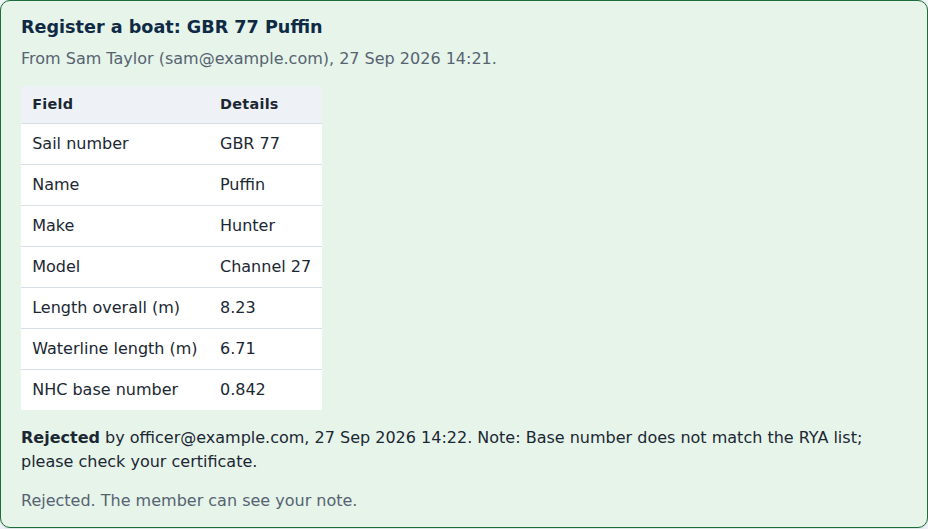
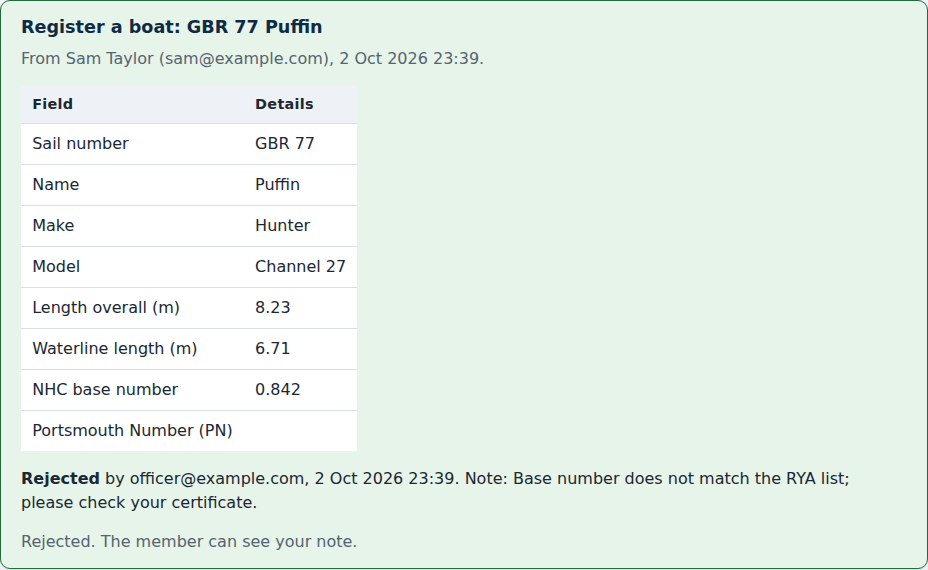
Slice 24 part B: manual, screenshots, decisions; disabled boats in Enter boats
Adds the Handicap systems manual page and updates the pages it touches.
Enter boats now lists boats lacking the series' number, disabled and with the
reason, instead of silently leaving them out.

Claude-Session: https://claude.ai/code/session_01QY3tQYF5nVQS35pznUQfpw

diff --git a/scripts/manual_screenshots/shots.js b/scripts/manual_screenshots/shots.js
@@ -155,6 +155,28 @@ const card = (page, text) => page.locator('section.card', { hasText: text }).fir
     clip: { x: 0, y: title.y - 8, width: 1000, height: standings.y + standings.height - title.y + 16 },
   });
 
+  // Portsmouth Yardstick (slice 24): a series' handicap system on its settings
+  // page, then its results, and a boat that races on a Portsmouth Number.
+  await officer.goto(`${BASE}/office/`);
+  await officer.locator('table a', { hasText: "Gaffers' Cup" }).click();
+  await officer.click('text=Change settings');
+  await officer.waitForLoadState('networkidle');
+  const settings = await officer.locator('form.stacked').boundingBox();
+  const rules = await officer.locator('fieldset.group').boundingBox();
+  await officer.screenshot({
+    path: path.join(OUT, 'handicap-system-setting.png'), fullPage: true,
+    clip: { x: settings.x - 8, y: settings.y - 8, width: settings.width + 16, height: rules.y - settings.y },
+  });
+  await publicPage.goto(`${BASE}/series/4/?race=1&detail=1`);
+  const gTop = await publicPage.locator('#race-1').boundingBox();
+  const gTable = await publicPage.locator('#race-1 ~ .table-scroll').first().boundingBox();
+  await publicPage.screenshot({
+    path: path.join(OUT, 'results-portsmouth.png'), fullPage: true,
+    clip: { x: 0, y: gTop.y - 8, width: 1000, height: gTable.y + gTable.height - gTop.y + 16 },
+  });
+  await phone.goto(`${BASE}/boats/5/`);
+  await shot(phone.locator('body'), 'results-portsmouth-boat.png');
+
   // Forgotten passwords.
   await publicPage.goto(`${BASE}/accounts/password-reset/`);
   await shot(publicPage.locator('body'), 'password-reset.png');

diff --git a/templates/races/office/_boat_choices.html b/templates/races/office/_boat_choices.html
@@ -1,7 +1,13 @@
 <fieldset id="boat-choices" class="boat-choices" aria-label="Boats to enter" aria-live="polite">
   {% for boat in boats %}
+  {% if boat.pk in lacking %}
+  {# Slice 24: a boat without this series' number can't be entered, so say why. #}
+  <label><input type="checkbox" disabled>
+    {{ boat }} <span class="muted">has no {{ series.number_label }}, which this series needs</span></label>
+  {% else %}
   <label><input type="checkbox" name="boat" value="{{ boat.pk }}"{% if boat.pk|stringformat:"d" in ticked %} checked{% endif %}>
     {{ boat }}{% if boat.owner_display %} <span class="muted">{{ boat.owner_display }}</span>{% endif %}</label>
+  {% endif %}
   {% empty %}
   <p class="muted">No boats match &ldquo;{{ query }}&rdquo;.</p>
   {% endfor %}

diff --git a/scripts/manual_screenshots/seed.py b/scripts/manual_screenshots/seed.py
@@ -156,6 +156,45 @@ for number, day in [(1, 1), (2, 8), (3, 15)]:
             Finish.objects.create(race=race, entry=entry, finish_time=finish)
         Race.objects.filter(pk=race.pk).update(published_at=sent, results_sent_at=sent)
 
+# A Portsmouth Yardstick fleet (slice 24), a series of its own with its own
+# boats, which have only a Portsmouth Number. Race 1 is published; the numbers
+# are examples, not the RYA's. Created last so the other series keep their ids.
+gaffers = Series.objects.create(
+    club=club, name="Gaffers' Cup", handicap_system="PY", discards=0
+)
+gaffer_entries = [
+    SeriesEntry.objects.create(
+        series=gaffers,
+        boat=Boat.objects.create(
+            club=club,
+            sail_number=sail,
+            name=name,
+            py_number=number,
+            owner_name=owner,
+        ),
+    )
+    for sail, name, number, owner in [
+        ("GBR 311", "Mallard", 1120, "T. Penhale"),
+        ("GBR 59", "Shearwater", 1085, "A. Quay"),
+        ("GBR 2307", "Curlew", 1150, "J. Marsh"),
+    ]
+]
+gaffer_finishes = {
+    1: [time(19, 38, 20), time(19, 34, 5), time(19, 41, 50)],
+    2: [time(19, 31, 12), time(19, 29, 48), None],
+}
+for number, day in [(1, 10), (2, 17)]:
+    race = Race.objects.create(
+        series=gaffers, number=number, date=date(2026, 10, day), start_time=time(18, 30)
+    )
+    for entry, finish in zip(gaffer_entries, gaffer_finishes[number], strict=True):
+        RaceEntry.objects.create(race=race, entry=entry)
+        if finish:
+            Finish.objects.create(race=race, entry=entry, finish_time=finish)
+        else:
+            Finish.objects.create(race=race, entry=entry, status="DNF")
+    Race.objects.filter(pk=race.pk).update(published_at=sent, results_sent_at=sent)
+
 # One request of each kind, waiting.
 BoatRequest.objects.create(
     club=club,

diff --git a/races/test_handicap_systems.py b/races/test_handicap_systems.py
@@ -455,6 +455,34 @@ def test_the_office_names_every_boat_that_lacks_the_number(committee_client, py_
     assert "Nhc Only (N1), Spare (N2) have no Portsmouth Number (PN)" in page
 
 
+def test_the_enter_boats_list_says_why_a_boat_cant_be_ticked(
+    committee_client, py_boats
+):
+    series = make_series("Gaffers", handicap_system="PY")
+    page = committee_client.get(
+        reverse("races:office_enter_boats", args=[series.pk])
+    ).content.decode()
+    # Boats with a PN can be ticked; the NHC-only boat is listed, disabled, with why.
+    assert f'value="{py_boats["swift"].pk}"' in page
+    assert f'value="{py_boats["both"].pk}"' in page
+    assert f'value="{py_boats["nhc"].pk}"' not in page
+    assert "Nhc Only (N1) <span" in page and "has no Portsmouth Number (PN)" in page
+    assert '<input type="checkbox" disabled>' in page
+
+
+def test_an_nhc_series_lists_every_boat_as_tickable_that_has_a_base_number(
+    committee_client, py_boats
+):
+    series = make_series("Autumn")
+    page = committee_client.get(
+        reverse("races:office_enter_boats", args=[series.pk])
+    ).content.decode()
+    assert f'value="{py_boats["nhc"].pk}"' in page
+    assert f'value="{py_boats["both"].pk}"' in page
+    assert f'value="{py_boats["swift"].pk}"' not in page
+    assert "Swift (PY1) <span" in page and "has no NHC base number" in page
+
+
 def test_the_office_enters_boats_that_have_the_number(committee_client, py_boats):
     series = make_series("Gaffers", handicap_system="PY")
     response = office_enter(

diff --git a/races/office_views.py b/races/office_views.py
@@ -430,7 +430,7 @@ def enter_boats(request, pk):
     }
     # Boats ticked before a search stay listed, and ticked, whatever it finds.
     unentered = form.fields["boat"].queryset
-    boats = search(unentered, query, keep=ticked)
+    boats = list(search(unentered, query, keep=ticked).select_related("owner"))
     return _render(
         request,
         "races/office/enter_boats.html",
@@ -438,7 +438,9 @@ def enter_boats(request, pk):
         {
             "form": form,
             "series": series,
-            "boats": boats.select_related("owner"),
+            "boats": boats,
+            # Boats the series can't take yet: listed, but not tickable (slice 24).
+            "lacking": {boat.pk for boat in boats if series.boats_lack(boat)},
             "ticked": ticked,
             "query": query,
             "any_to_enter": unentered.exists(),

diff --git a/CLAUDE.md b/CLAUDE.md
@@ -103,7 +103,7 @@ a pointer instead.
   fixture I/O happens there, never inside `nhc/`. `tests/test_manual.py` is the
   one non-engine test there: it checks the user manual's links and contents.
 - Clubs (slice 11): Race Times serves many clubs from one database. `races/clubs.py` middleware finds `request.club` from the host (`<subdomain>.<SERVICE_DOMAIN>`, or the `SINGLE_CLUB` setting on an address with no club, which is how the Render test site, 127.0.0.1 and the tests reach Demo Club). Every club-owned model has `Model.objects.for_club(club)`, and every page, form and admin view looks up club rows through it (or through a row already found that way). `races/test_isolation.py` checks every URL, id, admin page and email for another club's data, and fails if a request-facing module queries a club model without `for_club`. A row's `club` is never editable in a form. The admin (`races/admin_site.py`, `ClubScopedAdmin`) shows only the current club; on the service's own address only the operator (superuser) gets in. Test builders default to Demo Club (`races.testing.default_club()`); to test several clubs, `make_club()` and set `HTTP_HOST="<subdomain>.localhost"`. The operator's pages (slice 11 part 3, `races/operator_views.py` at `/operator/`) exist only on the service's own address (`request.club is None`, tested with `settings.SINGLE_CLUB = ""` and `HTTP_HOST="localhost"`) and only for a superuser; they create and suspend clubs, rename them and change their contact email (slice 22: `club_settings`, logged, and the club's administrators emailed; the address never changes), invite administrators, and (slice 13) approve or turn down people *waiting* to join a club, through the same `membership_views.decide` as the club's Club members page, recorded as "the Race Times operator" (`OPERATOR_NAME`) (`races/invitations.py`: a signed 7-day link to the club's address), and log every action as an `OperatorAction`. Clubs and memberships aren't in the Django admin. See `docs/operating.md`.
-- `config/` is the Django project (settings, root URLs, WSGI/ASGI). `races/` is the app: Club, Boat, Series, SeriesEntry, Race, RaceEntry and Finish models, set up in the race office (below); `races/scoring.py` replays a series through `nhc` on every request (nothing derived is stored), passing a series' optional NHC steps (slice 14: `Series.nhc_cap_extremes` and `nhc_realign_to_base`, club series only, in `nhc/options.py`, apart from the RYA calculation in `nhc/handicap.py`; the MCC race in `tests/fixtures/mcc_full_nhc_method.yaml` is their specification); `races/audit.py` records every change to a score-affecting field as a `ScoringChange` row (who, when, old and new, and a reason for corrections), called explicitly from the finish view, the race office and the admin rather than via signals; a committee-only race day page per race (slice 9, `races/race_day.py` and `/races/<pk>/`: a Start sheet view and a Finishing view where a **Finished** button stamps the site's local time, with a two-minute Undo, 5-second HTMX polling that answers 204 when nothing changed, and `static/js/race-clock.js`, the one approved hand-written script; `race_day.now` is the clock to fix in tests) and a committee-only history page per series. The old finish-entry and start sheet addresses redirect to the race day page. Roles (see `docs/brief.md`) are per club (slice 11 part 2): a `ClubMembership` gives a person a role at one club (member, committee or administrator) once approved, and `races/roles.py` answers `is_member/is_committee/is_club_administrator(user, club)` from it. Use `member_required` / `committee_required` / `club_administrator_required`: the public is sent to log in, and a logged-in person without the role gets a 403, never a login redirect, which would loop. `is_staff`, Django groups and superuser status grant nothing at a club (the old "Race committee" group was removed by migration 0020); a superuser is the service's operator. Sign-up confirms the email with a signed link (`races/membership_views.py`) and asks to join the club; club administrators decide on the Club members page (`/members/`). Test builders `make_member/make_committee/make_administrator` create an approved Demo Club membership (`club=`, `role=`, `status=` to vary it; `join()` adds another club), and `make_operator()` a superuser with none. Members change nothing directly: `races/member_views.py` creates `BoatRequest`/`EntryRequest` rows, and `races/approvals.py` applies one when the committee approves it on the Change requests page (`/requests/`), through the same audit code as the admin. Email (slice 4) goes only through `races/notifications.send`, which sends after the transaction commits and turns a failure into a logged warning on the page rather than an error; templates are `templates/emails/*.txt`, first line the subject. `races/publishing.py` publishes a race's results and decides "amended since sent" from the change history. `races/sharing.py` (slice 21) builds the committee's **Share to WhatsApp** links (`https://wa.me/?text=...`, messages in `templates/races/share/`), shown only once a race is published and sent, or a series is final; the site itself sends nothing to WhatsApp. `races/final.py` (slice 10) declares a series final and reopens it: a final series is locked (every write path calls `final.check_open`, or `check_series_open` to read the series fresh) and `races/scoring.score_series` rebuilds its results from `Series.final_results`, a JSON copy of the engine's output, instead of replaying; this is the one place derived results are stored. Declaring and reopening are history rows of kind FINAL, which neither mark races amended nor move the standings' "Last updated". `races/start_sheet.py` (slice 6) keeps each race's start sheet (`RaceEntry`): only a boat on it can have a finish, every boat on it needs a time or a code before publishing, and a boat on it with nothing recorded is still scored DNC but shown as "Not recorded". Start sheet changes are not audited, since none moves a score. The test builder `record()` puts the boat on the start sheet first. `races/urls.py` is included at the site root. Project-level templates live in `templates/` (`base.html` loads HTMX and sends the CSRF token via `hx-headers`, so HTMX POSTs work without per-form tokens); HTMX is vendored at `static/js/htmx.min.js` (v2.0.10), not loaded from a CDN. The look (slice 7) is one hand-written stylesheet, `static/css/site.css`: every colour is a token in its `:root`, and `races/test_styles.py` checks the tokens meet WCAG AA contrast, that no colour is written anywhere else, and that pages load only the site's own files. `templates/500.html` copies the look inline and loads nothing. The race office (slice 18, `races/office_views.py` at `/office/`, **Race office** in the committee's menu) is where the committee sets up the club's boats, series, races and entries on the site's own pages, with Coming up (the next races) on its front page; the Django admin stays, at club addresses and the service's, but nothing on a club's site, in an email or in the manual links to it (`races/test_office.py` checks every page and email template), and on the service's own address it leaves out its links to club pages. `races/office_forms.BoatForm` and `SeriesForm` hold the rules and saving (`save_audited`) for both the race office and the admin, whose `BoatAdminForm` and `SeriesAdminForm` only add an always-shown reason box; the admin keeps its own race and entry inline formsets. Views live in one `*_views.py` module per area: `race_day_views` (the race day page and publishing), `office_views` (the race office), `series_views` (a series' history and final results), `request_views` (the committee's Change requests page), `member_views`, `membership_views`, `account_views`, `operator_views` and `legal_views`. Forms likewise: `race_day_forms`, `office_forms`, `admin_forms`, `request_forms`, `account_forms` and `operator_forms`; `audit.AuditedFormMixin` gives a form that saves a score-affecting field its history rows and its required reason. `races/testing.py` has builders and helpers for the app's tests, and `races/conftest.py` the fixtures several test modules share (`results/conftest.py` re-exports them); a test module never imports from another test module. A boat is shown as "Name (Sail number)" (`Boat.__str__`, slice 15) everywhere except the race day page, which puts the sail number first (`Boat.race_day_label`), since the committee reads sail numbers off boats on the water.
+- `config/` is the Django project (settings, root URLs, WSGI/ASGI). `races/` is the app: Club, Boat, Series, SeriesEntry, Race, RaceEntry and Finish models, set up in the race office (below); `races/scoring.py` replays a series through `nhc` on every request (nothing derived is stored; slice 24: `Series.handicap_system` NHC or PY picks the engine, a PY series uses each boat's `Boat.py_number` and a boat needs the number of every series it's entered in, `Series.number_field`), passing a series' optional NHC steps (slice 14: `Series.nhc_cap_extremes` and `nhc_realign_to_base`, club series only, in `nhc/options.py`, apart from the RYA calculation in `nhc/handicap.py`; the MCC race in `tests/fixtures/mcc_full_nhc_method.yaml` is their specification); `races/audit.py` records every change to a score-affecting field as a `ScoringChange` row (who, when, old and new, and a reason for corrections), called explicitly from the finish view, the race office and the admin rather than via signals; a committee-only race day page per race (slice 9, `races/race_day.py` and `/races/<pk>/`: a Start sheet view and a Finishing view where a **Finished** button stamps the site's local time, with a two-minute Undo, 5-second HTMX polling that answers 204 when nothing changed, and `static/js/race-clock.js`, the one approved hand-written script; `race_day.now` is the clock to fix in tests) and a committee-only history page per series. The old finish-entry and start sheet addresses redirect to the race day page. Roles (see `docs/brief.md`) are per club (slice 11 part 2): a `ClubMembership` gives a person a role at one club (member, committee or administrator) once approved, and `races/roles.py` answers `is_member/is_committee/is_club_administrator(user, club)` from it. Use `member_required` / `committee_required` / `club_administrator_required`: the public is sent to log in, and a logged-in person without the role gets a 403, never a login redirect, which would loop. `is_staff`, Django groups and superuser status grant nothing at a club (the old "Race committee" group was removed by migration 0020); a superuser is the service's operator. Sign-up confirms the email with a signed link (`races/membership_views.py`) and asks to join the club; club administrators decide on the Club members page (`/members/`). Test builders `make_member/make_committee/make_administrator` create an approved Demo Club membership (`club=`, `role=`, `status=` to vary it; `join()` adds another club), and `make_operator()` a superuser with none. Members change nothing directly: `races/member_views.py` creates `BoatRequest`/`EntryRequest` rows, and `races/approvals.py` applies one when the committee approves it on the Change requests page (`/requests/`), through the same audit code as the admin. Email (slice 4) goes only through `races/notifications.send`, which sends after the transaction commits and turns a failure into a logged warning on the page rather than an error; templates are `templates/emails/*.txt`, first line the subject. `races/publishing.py` publishes a race's results and decides "amended since sent" from the change history. `races/sharing.py` (slice 21) builds the committee's **Share to WhatsApp** links (`https://wa.me/?text=...`, messages in `templates/races/share/`), shown only once a race is published and sent, or a series is final; the site itself sends nothing to WhatsApp. `races/final.py` (slice 10) declares a series final and reopens it: a final series is locked (every write path calls `final.check_open`, or `check_series_open` to read the series fresh) and `races/scoring.score_series` rebuilds its results from `Series.final_results`, a JSON copy of the engine's output, instead of replaying; this is the one place derived results are stored. Declaring and reopening are history rows of kind FINAL, which neither mark races amended nor move the standings' "Last updated". `races/start_sheet.py` (slice 6) keeps each race's start sheet (`RaceEntry`): only a boat on it can have a finish, every boat on it needs a time or a code before publishing, and a boat on it with nothing recorded is still scored DNC but shown as "Not recorded". Start sheet changes are not audited, since none moves a score. The test builder `record()` puts the boat on the start sheet first. `races/urls.py` is included at the site root. Project-level templates live in `templates/` (`base.html` loads HTMX and sends the CSRF token via `hx-headers`, so HTMX POSTs work without per-form tokens); HTMX is vendored at `static/js/htmx.min.js` (v2.0.10), not loaded from a CDN. The look (slice 7) is one hand-written stylesheet, `static/css/site.css`: every colour is a token in its `:root`, and `races/test_styles.py` checks the tokens meet WCAG AA contrast, that no colour is written anywhere else, and that pages load only the site's own files. `templates/500.html` copies the look inline and loads nothing. The race office (slice 18, `races/office_views.py` at `/office/`, **Race office** in the committee's menu) is where the committee sets up the club's boats, series, races and entries on the site's own pages, with Coming up (the next races) on its front page; the Django admin stays, at club addresses and the service's, but nothing on a club's site, in an email or in the manual links to it (`races/test_office.py` checks every page and email template), and on the service's own address it leaves out its links to club pages. `races/office_forms.BoatForm` and `SeriesForm` hold the rules and saving (`save_audited`) for both the race office and the admin, whose `BoatAdminForm` and `SeriesAdminForm` only add an always-shown reason box; the admin keeps its own race and entry inline formsets. Views live in one `*_views.py` module per area: `race_day_views` (the race day page and publishing), `office_views` (the race office), `series_views` (a series' history and final results), `request_views` (the committee's Change requests page), `member_views`, `membership_views`, `account_views`, `operator_views` and `legal_views`. Forms likewise: `race_day_forms`, `office_forms`, `admin_forms`, `request_forms`, `account_forms` and `operator_forms`; `audit.AuditedFormMixin` gives a form that saves a score-affecting field its history rows and its required reason. `races/testing.py` has builders and helpers for the app's tests, and `races/conftest.py` the fixtures several test modules share (`results/conftest.py` re-exports them); a test module never imports from another test module. A boat is shown as "Name (Sail number)" (`Boat.__str__`, slice 15) everywhere except the race day page, which puts the sail number first (`Boat.race_day_label`), since the committee reads sail numbers off boats on the water.
 - `results/` is the public results app (slice 5): the home page (boat search, latest results, every series), a series page and a boat page, at `/`, `/series/<pk>/` and `/boats/<pk>/`. It only reads: no models, GET-only views, and it shows what `races.scoring.score_series` computes and nothing else. The CSV download at `/series/<pk>/results.csv` (slice 10) is built from the same results by `races/series_csv.py`, which the club's data export uses too. It imports from `races`; `races` never imports from it (it links to it by URL name only). `results/test_read_only.py` enforces all of this. Each HTMX interaction goes to the same URL as its full page; `results/views.py:_render` returns just the targeted fragment when `request.htmx` names it. Public pages never show owners' names.
 - User manual: `manual/` is for the site's users (members, race committee, administrator), organised by role and written in plain CommonMark plus tables so it stays portable; `mkdocs.yml` lists its pages and `.readthedocs.yaml` publishes it. `docs/` is developer documentation and is not part of it. `tests/test_manual.py` checks every link, image and contents entry; screenshots come from `scripts/manual_screenshots/` against throwaway sample data.
 - Hosting (slice 12): `render.yaml` describes two sites. The free test site deploys `main` on every push, running `build.sh` (collectstatic, then `release.sh`: migrate, createcachetable, `ensure_superuser`) and then `gunicorn`; see `docs/deploying.md`. Production (`racetimes-production`, Frankfurt, `racetimes.co.uk`) deploys only when Deploy is pressed, runs `release.sh` as its pre-deploy step, and has a nightly cron job (`backup/`: pg_dump, gpg-encrypted, to S3-compatible storage; `backup/restore.sh` reads one back). `docs/production.md` is its runbook; `scripts/check_live.py` (standard library only) checks the live site; `manage.py series_summary` compares a restored database with production. `races/test_production.py` pins the Blueprint's production settings. `www.<SERVICE_DOMAIN>` redirects to the service's address (`races/clubs.py`). The service's front page (slice 19, `races/service_views.py`, called by the club middleware for `/` on the service's own address) is a landing page for clubs with **Find my club**, an HTMX search of active clubs by name and address; its images are in `static/img/landing/`, made by `scripts/landing_images/make.js` from the hero photo (credited on the page, CC BY-SA 2.0) and the manual's screenshots. `HtmxMiddleware` sits before `ClubMiddleware`, since the club middleware answers that page itself. With `DJANGO_DEBUG=0` the settings switch to production behaviour: WhiteNoise serves static files, HTTPS is enforced (redirect, HSTS for `SECURE_HSTS_SECONDS`, secure cookies), and a missing `DJANGO_SECRET_KEY` stops the site starting.

diff --git a/manual/committee/handicap-systems.md b/manual/committee/handicap-systems.md
@@ -1,0 +1,86 @@
+# Handicap systems: NHC and Portsmouth Yardstick
+
+*For the race committee and the administrator.*
+
+Every series is scored with one **handicap system**. You choose it when you
+start the series. Race Times offers two.
+
+| System | What a boat sails on | Does it change? |
+|---|---|---|
+| **NHC** (National Handicap for Cruisers) | The boat's NHC base number, such as 0.964, which then moves after every race according to how she did. | Yes, after each race. |
+| **Portsmouth Yardstick** (PY) | The boat's Portsmouth Number (PN), a whole number such as 1072. A higher number is a slower boat. | No. It is the same for every race of the series. |
+
+With Portsmouth Yardstick a boat's corrected time is her elapsed time
+multiplied by 1000 and divided by her PN. The lowest corrected time wins.
+Places, points, discards and the standings are worked out exactly as for NHC
+(Appendix A of the Racing Rules of Sailing). Nothing is rounded before the
+boats are ranked.
+
+## Choosing the system
+
+In the [race office](race-office.md), follow **New series** and choose the
+system in the **Handicap system** box.
+
+![The Handicap system box on a series' settings, set to Portsmouth Yardstick](../images/handicap-system-setting.png)
+
+The choice is part of the series' [scoring rules](scoring-rules.md). Set it
+before the first race. Once a series has results, changing the system is a
+correction: it needs a reason and it's recorded in the series' history, like
+any other rule.
+
+Some settings only make sense under NHC: a regatta, a minimum number of
+finishers, capping extreme results, and realigning to base handicaps. A
+Portsmouth Yardstick series refuses them, with a message saying so, rather
+than quietly ignoring them. Discards, the discard threshold and RRS A5.3 work
+for both.
+
+## Boat numbers
+
+Each boat has an NHC base number, a Portsmouth Number, or both. See
+[Setting up boats](setting-up-boats.md). A boat must have the number of every
+series she is entered in:
+
+- To enter a boat in an NHC series she needs an NHC base number.
+- To enter a boat in a Portsmouth Yardstick series she needs a Portsmouth
+  Number.
+
+On the **Enter boats** page, a boat without the right number is listed but
+can't be ticked, and says what she is missing.
+
+![Entering boats in a Portsmouth Yardstick series: boats with no Portsmouth Number can't be ticked](../images/office-enter-boats.png)
+
+A boat that races in both kinds of series can have both numbers. A boat
+needs at least one.
+
+## Changing a boat's Portsmouth Number
+
+Change it as you would a base number: open the boat in **The club's boats**
+and change the number. Once the boat has results, the change is a
+correction. It needs a reason, it's recorded in the history of every series
+that uses the number, and the results are worked out again with the new
+number for the whole series.
+
+Portsmouth Numbers are normally reviewed once a year. Race Times has no way
+to change a boat's number part-way through a series so that earlier races keep
+the old one. If your club revises numbers mid-season, start a new series.
+
+## Running a Portsmouth fleet beside an NHC fleet
+
+If part of your fleet races on PN and part on NHC, run them as two series
+with the same races: one of each system, and enter each boat in the series
+that suits her. Each series has its own results and its own standings.
+
+## What the public sees
+
+The series' results show a **PN** column in place of the NHC handicap, and no
+"next handicap", since nothing changes.
+
+![A Portsmouth Yardstick race's results: each boat's PN, elapsed and corrected times, places and points](../images/results-portsmouth.png)
+
+A boat's page shows her PN for the series, her place and each race.
+
+![A boat's page in a Portsmouth Yardstick series](../images/results-portsmouth-boat.png)
+
+Declaring a series final keeps the numbers each boat raced on, so
+[final results](ending-a-series.md) stay as they were even if a boat's number
+is later changed.

diff --git a/manual/committee/setting-up-boats.md b/manual/committee/setting-up-boats.md
@@ -9,8 +9,8 @@ the race committee can add and change boats directly here.
 ## The club's boats
 
 In the [race office](race-office.md), follow **The club's boats**. Every boat
-is listed by sail number, with its name, make, model, NHC base number and
-owner.
+is listed by sail number, with its name, make, model, NHC base number,
+Portsmouth Number and owner.
 
 ![The club's boats: sail number, name, make, model, base number and owner, with a search box](../images/office-boats.png)
 
@@ -21,7 +21,7 @@ they're spaced or capitalised, so "gbr42" finds "GBR 42".
 ## Adding a boat
 
 Follow **Add a boat**, fill in its details, and press **Add the boat**. Only
-the sail number and the NHC base number are required.
+the sail number and at least one number (below) are required.
 
 - **Sail number** must be unique at the club. "GBR 42" and "gbr42" count as
   the same.
@@ -31,7 +31,13 @@ the sail number and the NHC base number are required.
 - **Owner name** is for a boat whose owner has no account here, such as a
   visitor. It is shown instead, and nobody is emailed.
 - **NHC base number** is the boat's published NHC base handicap, such as
-  0.964. Every series starts each boat on it.
+  0.964. An NHC series starts each boat on it.
+- **Portsmouth Number (PN)** is the boat's Portsmouth Yardstick number, such
+  as 1072. A Portsmouth Yardstick series uses it for every race.
+
+A boat needs the number of every series she's entered in, so give her the
+one or both that she'll use. See
+[Handicap systems](handicap-systems.md).
 
 ## Changing a boat
 
@@ -41,8 +47,9 @@ the old and the new owner are told.
 
 ![A boat's details, with the reason box shown because the boat already has results](../images/office-boat.png)
 
-Changing a boat's **NHC base number** changes the handicaps in every series
-it's entered in. Once the boat has results, the page shows a **Reason for
+Changing a boat's **NHC base number** changes the handicaps in every NHC series
+it's entered in, and changing her **Portsmouth Number** changes the results in
+every Portsmouth Yardstick series. Once the boat has results, the page shows a **Reason for
 change** box, and a new base number needs a reason: it is a correction, and
 it's recorded in each series' history with your name and the reason. After
 saving, the page says what the change moved in each series, such as

diff --git a/docs/decisions.md b/docs/decisions.md
@@ -2163,6 +2163,38 @@ other; slice 25 needs slice 24.
   penalty under PY are tested as behaviour, with figures worked from the rules
   in the test's own comments, not as fixtures.
 
+## 2026-10-02 - Slice 24 part B: Portsmouth Yardstick on the site
+
+**Decision.** A series has a `handicap_system` (NHC or PY). `races/scoring.py`
+builds the engine's NHC or fixed-number input from it and returns the same
+result shape either way, with `is_fixed_number`, `raced_on` and no
+`next_handicap` for PY. A boat has an optional `base_number` and an optional
+`py_number`, and needs at least one. A boat needs the number of every series
+it is entered in; this is checked when entering a boat, in the admin, in
+member entry requests (refused early, before the committee sees them) and
+again at scoring, where a missing number makes the series "unscorable" with a
+message naming the boats, never a crash. NHC-only settings (regatta, minimum
+finishers, capping, realigning) on a PY series are refused, never ignored; at
+scoring time too, for rows changed past the forms.
+
+**Why.** The slice wanted PN to be like a base number for audit purposes: a
+changed number is a correction with a reason and a row in each affected
+series' history. Mid-series PN changes (earlier races keeping the old number)
+are out of scope and the manual says to start a new series.
+
+**Smaller choices.**
+
+- NHC pages keep their "Handicap" / "Next handicap" wording. The spec said
+  "TCF"; the existing pages, manual and emails all say handicap, so PY pages
+  say "PN" and NHC wording is unchanged. Owner may wish to change it.
+- A final series' stored copy gets a `system` key. Copies without it (stored
+  before this slice) load as NHC.
+- The Enter boats list shows boats lacking the series' number, disabled, with
+  the reason, so the committee isn't left wondering where a boat went.
+- Migration 0024 is one schema migration: it makes `base_number` nullable,
+  adds `py_number` to Boat and BoatRequest, adds `handicap_system`, and
+  replaces the constraint. Checked on SQLite and PostgreSQL, and reversible.
+
 ## Open requirements
 
 Things that must be done before a stated milestone, but aren't code.

diff --git a/manual/committee/scoring-rules.md b/manual/committee/scoring-rules.md
@@ -14,12 +14,16 @@ what it changed. Once its results are final, only its name can change.
 
 | Rule | What it does |
 |---|---|
+| **Handicap system** | NHC or Portsmouth Yardstick: see [Handicap systems](handicap-systems.md). |
 | **Discards** | How many of each boat's worst scores are left out of its total (RRS A2.1). |
 | **No discards until this many races are scored** | Discards apply only once this many races have results, as in "one discard once four races have been sailed" (RRS A2.1). 0, the starting value, means they always apply. A race not yet sailed, or held back, doesn't count. It must be larger than the number of discards, since otherwise every score would be left out. The series page says it in words: "1 discard once 4 races are scored". |
 | **Minimum finishers** | With fewer finishers than this in a race, nobody's handicap changes after it. 0 is off, which is the RYA's rule. Club series only. |
 | **Use RRS A5.3** | Boats that did not start or did not finish score one more than the boats that came to the start, instead of one more than the series' entries. Only if your notice of race says so. |
 | **Cap extreme results** | See below. Off unless your club uses it. Club series only. |
 | **Realign to base handicaps** | See below. Off unless your club uses it. Club series only. |
+
+The minimum finishers rule and the two optional NHC steps are for NHC series
+only; a Portsmouth Yardstick series refuses them.
 
 ## The two optional NHC steps
 

diff --git a/manual/committee/setting-up-a-series.md b/manual/committee/setting-up-a-series.md
@@ -10,7 +10,8 @@ whenever something changes.
 ## Starting a series
 
 In the [race office](race-office.md), follow **New series**. Give it a name,
-choose whether it's a **club series** or a **regatta**, and set its
+choose its [handicap system](handicap-systems.md) (NHC or Portsmouth
+Yardstick), choose whether it's a **club series** or a **regatta**, and set its
 [scoring rules](scoring-rules.md). Press **Create the series** and you're
 taken to the series' page.
 
@@ -67,8 +68,9 @@ Every boat entered, and how many results each has.
 Once the series has results, entering or removing a boat changes how many
 boats are scored, so it needs a reason, like any other correction.
 
-A boat must be on the club's list before it can be entered: see
-[Setting up boats](setting-up-boats.md).
+A boat must be on the club's list before it can be entered, and must have the
+number the series' [handicap system](handicap-systems.md) needs (an NHC base
+number or a Portsmouth Number): see [Setting up boats](setting-up-boats.md).
 
 ## A final series
 

diff --git a/manual/getting-started/how-results-are-worked-out.md b/manual/getting-started/how-results-are-worked-out.md
@@ -6,6 +6,12 @@ This page walks through exactly what Race Times does with a race. It starts
 with the numbers you give it and ends with each boat's handicap for its next
 race. Every step is simple arithmetic: adding, multiplying and dividing.
 
+This page is about NHC. A series can instead use the Portsmouth Yardstick,
+where each boat has a fixed number and corrected time is simply elapsed time
+times 1000 divided by that number; steps 1 to 3 below are then the same, and
+step 4 doesn't happen, since nothing changes. See
+[Handicap systems](../committee/handicap-systems.md).
+
 Race Times follows the RYA's rules for NHC (the National Handicap for
 Cruisers) and the scoring rules in Appendix A of the Racing Rules of Sailing.
 Nothing here is Race Times' own invention, apart from the optional steps
